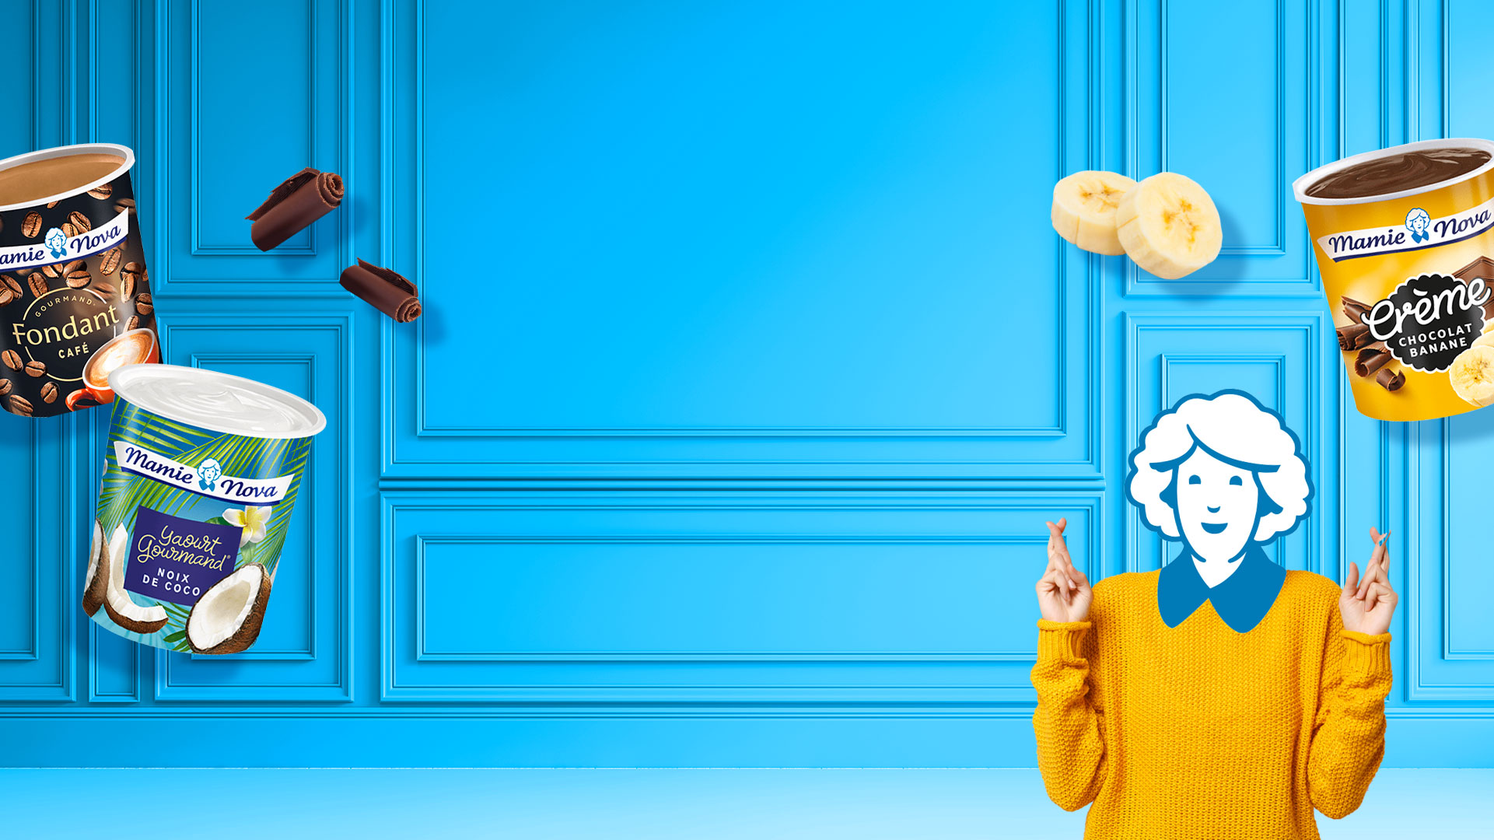
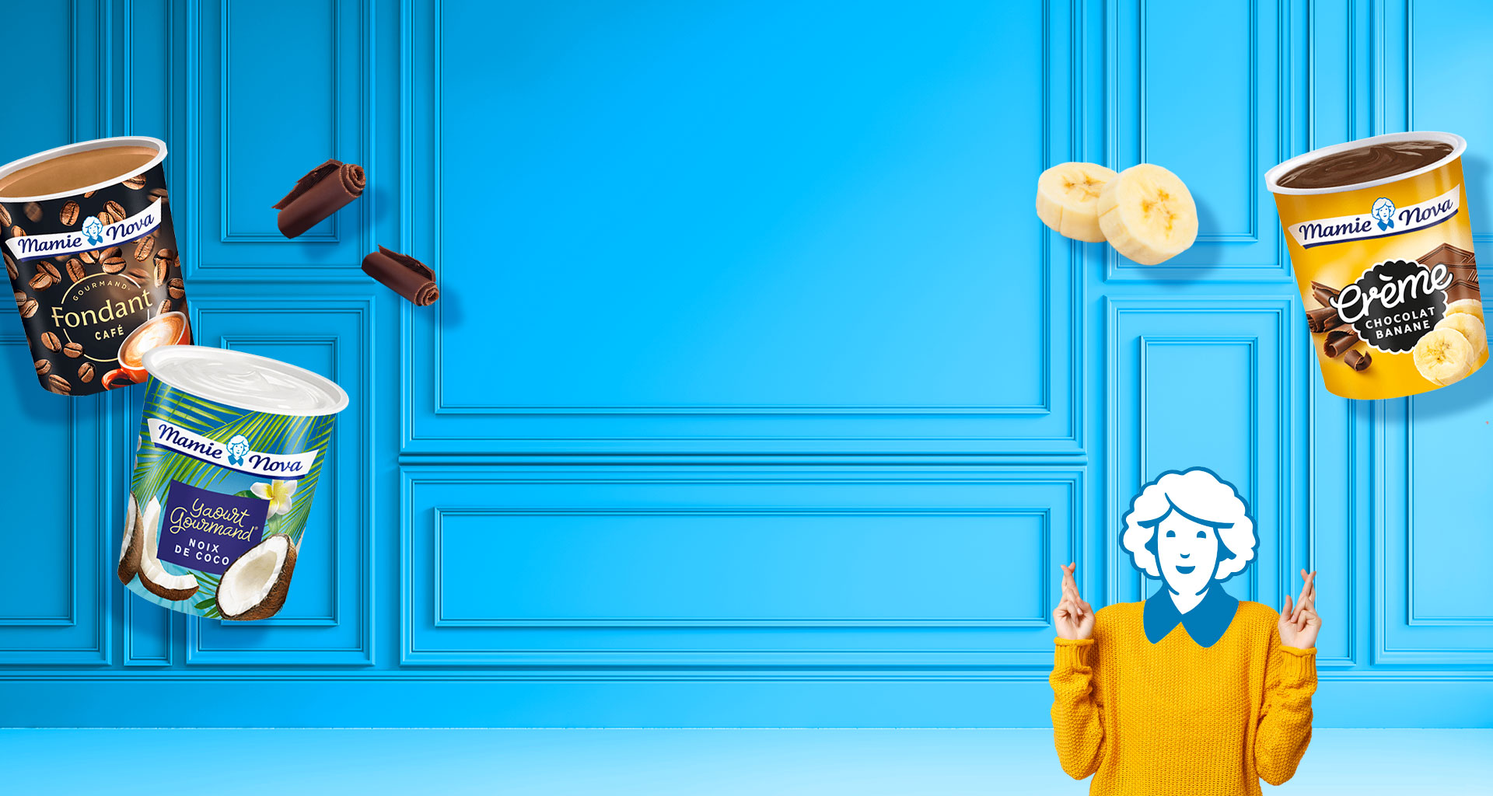
bg position + update bg

diff --git a/css/style.css b/css/style.css
@@ -1,1 +1,1 @@
-@import url("https://fonts.googleapis.com/css2?family=Poppins:wght@400;700&family=Lato:ital,wght@0,100;0,300;0,400;0,700;0,900;1,100;1,300;1,400;1,700;1,900&display=swap");@import url("https://use.typekit.net/puq2idw.css");body{font-family:"Poppins", sans-serif;font-weight:400;color:#292757}a{color:#292757}a:hover{color:#292757}button:focus{outline:none}.layout{background-color:#00aff2;min-height:calc(100vh - 20px);display:-webkit-box;display:-ms-flexbox;display:flex;-webkit-box-orient:vertical;-webkit-box-direction:normal;-ms-flex-direction:column;flex-direction:column;-webkit-box-pack:start;-ms-flex-pack:start;justify-content:start}@media (min-width: 768px){.layout{background-image:url("../assets/imgs/bg-tablet.jpg");background-size:cover;background-position:center}}.brand-logo{max-width:100%;z-index:1;margin:0 auto;padding:15px;width:240px}@media (min-width: 1200px){.brand-logo{width:300px}}.btn{font-family:"Poppins", sans-serif;font-size:30px;font-weight:700;border:solid 3px #fff;border-radius:20px;-webkit-box-shadow:6.3px 7.8px 0 0 #1aa1f380;box-shadow:6.3px 7.8px 0 0 #1aa1f380;padding:0 45px;text-transform:uppercase;color:white}.btn.btn-primary{background-color:#292757}.btn.btn-red{background-color:#ff4d03}.btn.btn-yellow{background-color:#ffa00e}.form-block{background-color:white;border-radius:30px;-webkit-box-shadow:6.9px 8.5px 0 0 #1e1e4c;box-shadow:6.9px 8.5px 0 0 #1e1e4c;max-width:800px;padding:20px 10px}@media (min-width: 768px){.form-block{padding:20px}}h1{font-size:38px;line-height:1;text-align:center;color:#292757;text-transform:uppercase;font-family:bello-caps, sans-serif}p{font-size:16px}.red{color:#ff4d03}header{margin-bottom:-40px}@media (min-width: 768px){header{margin-bottom:-50px}}@media (min-width: 1200px){header{margin-bottom:-60px}}header .navbar{background-color:#00aff2}@media (min-width: 768px){header .navbar{background-color:#292757;padding-top:0;padding-bottom:0}}header .navbar .navbar-toggler{z-index:2;border:none}header .navbar .navbar-toggler:focus{border:none;-webkit-box-shadow:none;box-shadow:none}header .navbar .navbar-collapse{-webkit-box-pack:center;-ms-flex-pack:center;justify-content:center}header .navbar .navbar-collapse .navbar-nav{padding-left:15px}@media (min-width: 768px){header .navbar .navbar-collapse .navbar-nav{-webkit-transform:translateX(60px);transform:translateX(60px)}}header .navbar .navbar-collapse .navbar-nav .nav-item{display:-webkit-box;display:-ms-flexbox;display:flex;-webkit-box-align:center;-ms-flex-align:center;align-items:center}header .navbar .navbar-collapse .navbar-nav .nav-item .nav-link{color:white;text-transform:uppercase;font-size:12px;font-weight:600}@media (min-width: 768px){header .navbar .navbar-collapse .navbar-nav .nav-item .nav-link{padding-left:5px;padding-right:5px}}@media (min-width: 1200px){header .navbar .navbar-collapse .navbar-nav .nav-item .nav-link{padding-left:10px;padding-right:10px;font-size:16px}}header .navbar .navbar-collapse .navbar-nav .nav-item .nav-link img{width:25px}@media (min-width: 1200px){header .navbar .navbar-collapse .navbar-nav .nav-item .nav-link img{width:30px}}@media (min-width: 1200px){header .navbar .navbar-collapse .navbar-nav .nav-item .nav-link.social{padding-left:5px;padding-right:5px}}header .navbar .navbar-collapse .navbar-nav .space{display:none}@media (min-width: 768px){header .navbar .navbar-collapse .navbar-nav .space{display:block;width:240px}}@media (min-width: 1200px){header .navbar .navbar-collapse .navbar-nav .space{width:300px}}@media (min-width: 1200px){header .navbar .navbar-collapse .navbar-nav .space.ishome{width:450px}}footer{background-color:#292757;padding:5px 0;color:white;position:relative}footer a{color:white;text-transform:uppercase;font-weight:700;font-size:10px;text-decoration:none;text-align:center}footer a:hover{color:white}footer a:not(:last-child){padding-right:10px;margin-right:10px;border-right:1px solid white}.form-progress{margin:30px 0;display:-webkit-box;display:-ms-flexbox;display:flex;-webkit-box-pack:center;-ms-flex-pack:center;justify-content:center;position:relative}.form-progress:after{content:"";width:55%;position:absolute;height:4px;background-color:#ff4d03;top:13px;margin:auto}@media (min-width: 0){.form-progress:after{width:220px}}.form-progress .step{display:-webkit-box;display:-ms-flexbox;display:flex;-webkit-box-orient:vertical;-webkit-box-direction:normal;-ms-flex-direction:column;flex-direction:column;-webkit-box-align:center;-ms-flex-align:center;align-items:center;width:120px}.form-progress .step .number-container{position:relative;z-index:1}.form-progress .step .number-container .bulle{width:30px}.form-progress .step .number-container .number{position:absolute;top:4px;left:11px;color:white;font-family:"Poppins", sans-serif;font-weight:900;font-size:16px;opacity:0.5}.form-progress .step .title{color:rgba(255,77,3,0.7);font-size:12px;margin-top:5px;font-family:"Poppins", sans-serif;font-weight:400;text-transform:uppercase}.form-progress .step.active .bulle{width:40px;position:relative;top:-5px}.form-progress .step.active .number{top:0px;left:15px;opacity:1;font-size:22px}.form-progress .step.active .title{font-size:14px;color:#ff4d03}.modal-btn{width:12px;height:12px;border-radius:20px;color:white;background-color:#ff4d03;display:inline-block;cursor:pointer;margin-left:3px}.modal-btn .text-container{display:-webkit-box;display:-ms-flexbox;display:flex;-webkit-box-pack:center;-ms-flex-pack:center;justify-content:center;-webkit-box-align:center;-ms-flex-align:center;align-items:center;line-height:normal}.modal-btn .text-container div{font-size:8px;font-weight:700}.modal .modal-content{text-align:center;padding:40px 60px}.modal .modal-content .close-btn{cursor:pointer;position:absolute;top:-20px;right:-17px}.modal .modal-content h2{font-size:24px;font-weight:700}.modal .modal-content p{font-size:20px}.home{background-position:right}@media (min-width: 1200px){.home{background-image:url("../assets/imgs/bg-home.jpg");background-size:cover;background-position:center}}@media (min-width: 1200px){.home .brand-logo{width:500px}}@media (min-width: 1400px){.home .a-gagner-container{position:relative;top:-130px;right:-130px}}@media (min-width: 1200px){.question-1{background-image:url("../assets/imgs/bg-question-1.jpg");background-size:cover;background-position:center}}.question-1 h1,.question-1 p{text-align:center}.question-1 input{cursor:pointer}.question-1 label{cursor:pointer;font-family:"Poppins", sans-serif;font-size:14px;font-weight:700;text-transform:uppercase}.question-1 .no-code-img{width:40%}@media (min-width: 768px){.question-2{background-image:url("../assets/imgs/bg-tablet-question-2.jpg");background-size:cover;background-position:center}}@media (min-width: 1200px){.question-2{background-image:url("../assets/imgs/bg-question-2.jpg");background-size:cover;background-position:center}}.question-2 .questions-container{position:relative}.question-2 .questions-container img{width:200px;margin:15px 0}@media (min-width: 768px){.question-2 .questions-container img{margin:0 15px}}@media (min-width: 1200px){.question-2 .questions-container img{width:200px}}.question-2 .mamie{display:none}@media (min-width: 1200px){.question-2 .mamie{display:block;width:200px;position:fixed;bottom:28px;left:50%;-webkit-transform:translateX(-50%);transform:translateX(-50%);margin-left:-440px}}.reponse .form-block{max-width:500px;text-align:center;position:relative}.reponse .form-block:before{content:"";display:inline-block;height:0;width:0;border-top:30px solid #292757;border-left:30px solid transparent;position:absolute;bottom:-30px;right:30px}.reponse .form-block:after{content:"";display:inline-block;height:0;width:0;border-top:20px solid white;border-left:20px solid transparent;position:absolute;bottom:-19px;right:35px}@media (min-width: 1200px){.reponse.reponse-1{background-image:url("../assets/imgs/bg-reponse-1.jpg");background-size:cover;background-position:center}}.reponse.reponse-1 .form-block{-webkit-box-shadow:6.9px 8.5px 0 0 #0172f6;box-shadow:6.9px 8.5px 0 0 #0172f6}.reponse.reponse-1 .form-block:before{border-top:30px solid #0172f6}@media (min-width: 1200px){.reponse.reponse-2{background-image:url("../assets/imgs/bg-reponse-2.jpg");background-size:cover;background-position:center}}.reponse.reponse-2 .form-block{-webkit-box-shadow:6.9px 8.5px 0 0 #ffbca5;box-shadow:6.9px 8.5px 0 0 #ffbca5}.reponse.reponse-2 .form-block:before{border-top:30px solid #ffbca5}@media (min-width: 1200px){.reponse.reponse-3{background-image:url("../assets/imgs/bg-reponse-3.jpg");background-size:cover;background-position:center}}.reponse.reponse-3 .form-block{-webkit-box-shadow:6.9px 8.5px 0 0 #ff7b30;box-shadow:6.9px 8.5px 0 0 #ff7b30}.reponse.reponse-3 .form-block:before{border-top:30px solid #ff7b30}@media (min-width: 1200px){.inscription{background-image:url("../assets/imgs/bg-inscription.jpg");background-size:cover;background-position:center}}.inscription .form-block{max-width:600px}.inscription h2{color:#ff4d03;text-align:center;text-transform:uppercase;font-size:20px;font-weight:700;margin-bottom:10px}.inscription .mentions{font-size:12px;text-align:center}.inscription .inputs-container{margin-bottom:20px;font-size:12px}@media (min-width: 768px){.inscription .inputs-container{padding:0 70px}}.inscription label{font-size:12px}.inscription input[type="text"],.inscription select{width:100%;border-radius:10px;background-color:#292757;color:white;padding:5px 0 5px 20px}.inscription input[type="text"]::-webkit-input-placeholder,.inscription select::-webkit-input-placeholder{color:rgba(255,255,255,0.71);font-style:italic}.inscription input[type="text"]:-ms-input-placeholder,.inscription select:-ms-input-placeholder{color:rgba(255,255,255,0.71);font-style:italic}.inscription input[type="text"]::-ms-input-placeholder,.inscription select::-ms-input-placeholder{color:rgba(255,255,255,0.71);font-style:italic}.inscription input[type="text"]::placeholder,.inscription select::placeholder{color:rgba(255,255,255,0.71);font-style:italic}.inscription input[type="text"].code,.inscription select.code{height:45px;letter-spacing:24px;font-size:18px;padding-left:17px;width:340px}@media (min-width: 768px){.inscription input[type="text"].code,.inscription select.code{padding-left:59px;width:100%}}.inscription .dotted-line{display:-webkit-box;display:-ms-flexbox;display:flex;-webkit-box-pack:center;-ms-flex-pack:center;justify-content:center;position:relative;bottom:12px}.inscription .dotted-line span{margin-right:7px;display:block;height:2px;width:28px;background-color:rgba(255,255,255,0.71)}.inscription .form-check-label{font-size:10px;position:relative;top:-2px}.inscription .inputfile{width:0.1px;height:0.1px;opacity:0;overflow:hidden;position:absolute;z-index:-1}.inscription .inputfile+label{text-transform:uppercase;cursor:pointer;border:3px solid #292757;font-weight:900;padding:2px 5px;font-size:14px}@media (min-width: 1200px){.gagne{background-image:url("../assets/imgs/bg-gagne-tas.jpg");background-size:cover;background-position:center}}.gagne p{font-weight:600;margin:30px 0 20px;max-width:260px;text-align:center;font-size:14px;font-family:"Lato", sans-serif}@media (min-width: 1200px){.perdu{background-image:url("../assets/imgs/bg-perdu.jpg");background-size:cover;background-position:center}}@media (min-width: 1200px){.a-gagner{background-image:url("../assets/imgs/bg-a-gagner.jpg");background-size:cover;background-position:center}}@media (min-width: 1200px){.participer{background-image:url("../assets/imgs/bg-participer.jpg");background-size:cover;background-position:center}}.participer .block{background-color:white;border-radius:26px;padding:20px}.participer h2{text-align:center;font-size:28px;margin-bottom:30px;font-family:bello-caps, sans-serif;line-height:1}.participer h2 .small{font-size:20px}.participer ol{list-style:none;padding:0}.participer ol li{margin-top:15px;display:-webkit-box;display:-ms-flexbox;display:flex;-webkit-box-align:start;-ms-flex-align:start;align-items:start}.participer ol li .number-container{margin-right:10px;position:relative;z-index:1}.participer ol li .number-container .bulle{width:30px}.participer ol li .number-container .number{text-align:center;position:absolute;top:1px;left:11px;color:white;font-family:"Poppins", sans-serif;font-weight:900;font-size:18px}.participer ol li p{text-transform:uppercase;margin-bottom:0}.participer ol li aside{font-size:12px}.participer .carousel{max-width:110px}@media (min-width: 576px){.participer .carousel{max-width:333px}}.participer .carousel img:not(.arrow){height:60px;margin:0 10px}.participer .carousel .arrow{cursor:pointer;width:10px;position:absolute;top:20px}.participer .carousel .arrow.prev{left:-20px;-webkit-transform:rotate(180deg);transform:rotate(180deg)}.participer .carousel .arrow.next{right:-15px}.participer .carousel.carousel-1{margin:20px 0 10px 20px}.participer .carousel.carousel-2{margin-left:10px}.participer .carousel.carousel-2 img:not(.arrow){height:100px;margin:0}.participer .carousel.carousel-2 .arrow{top:40px}
+@import url("https://fonts.googleapis.com/css2?family=Poppins:wght@400;700&family=Lato:ital,wght@0,100;0,300;0,400;0,700;0,900;1,100;1,300;1,400;1,700;1,900&display=swap");@import url("https://use.typekit.net/puq2idw.css");body{font-family:"Poppins", sans-serif;font-weight:400;color:#292757}a{color:#292757}a:hover{color:#292757}button:focus{outline:none}.layout{background-color:#00aff2;min-height:calc(100vh - 20px);display:-webkit-box;display:-ms-flexbox;display:flex;-webkit-box-orient:vertical;-webkit-box-direction:normal;-ms-flex-direction:column;flex-direction:column;-webkit-box-pack:start;-ms-flex-pack:start;justify-content:start}@media (min-width: 768px){.layout{background-image:url("../assets/imgs/bg-tablet.jpg");background-size:cover;background-position:center}}.brand-logo{max-width:100%;z-index:1;margin:0 auto;padding:15px;width:240px}@media (min-width: 1200px){.brand-logo{width:300px}}.btn{font-family:"Poppins", sans-serif;font-size:30px;font-weight:700;border:solid 3px #fff;border-radius:20px;-webkit-box-shadow:6.3px 7.8px 0 0 #1aa1f380;box-shadow:6.3px 7.8px 0 0 #1aa1f380;padding:0 45px;text-transform:uppercase;color:white}.btn.btn-primary{background-color:#292757}.btn.btn-red{background-color:#ff4d03}.btn.btn-yellow{background-color:#ffa00e}.form-block{background-color:white;border-radius:30px;-webkit-box-shadow:6.9px 8.5px 0 0 #1e1e4c;box-shadow:6.9px 8.5px 0 0 #1e1e4c;max-width:800px;padding:20px 10px}@media (min-width: 768px){.form-block{padding:20px}}h1{font-size:38px;line-height:1;text-align:center;color:#292757;text-transform:uppercase;font-family:bello-caps, sans-serif}p{font-size:16px}.red{color:#ff4d03}header{margin-bottom:-40px}@media (min-width: 768px){header{margin-bottom:-50px}}@media (min-width: 1200px){header{margin-bottom:-60px}}header .navbar{background-color:#00aff2}@media (min-width: 768px){header .navbar{background-color:#292757;padding-top:0;padding-bottom:0}}header .navbar .navbar-toggler{z-index:2;border:none}header .navbar .navbar-toggler:focus{border:none;-webkit-box-shadow:none;box-shadow:none}header .navbar .navbar-collapse{-webkit-box-pack:center;-ms-flex-pack:center;justify-content:center}header .navbar .navbar-collapse .navbar-nav{padding-left:15px}@media (min-width: 768px){header .navbar .navbar-collapse .navbar-nav{-webkit-transform:translateX(60px);transform:translateX(60px)}}header .navbar .navbar-collapse .navbar-nav .nav-item{display:-webkit-box;display:-ms-flexbox;display:flex;-webkit-box-align:center;-ms-flex-align:center;align-items:center}header .navbar .navbar-collapse .navbar-nav .nav-item .nav-link{color:white;text-transform:uppercase;font-size:12px;font-weight:600}@media (min-width: 768px){header .navbar .navbar-collapse .navbar-nav .nav-item .nav-link{padding-left:5px;padding-right:5px}}@media (min-width: 1200px){header .navbar .navbar-collapse .navbar-nav .nav-item .nav-link{padding-left:10px;padding-right:10px;font-size:16px}}header .navbar .navbar-collapse .navbar-nav .nav-item .nav-link img{width:25px}@media (min-width: 1200px){header .navbar .navbar-collapse .navbar-nav .nav-item .nav-link img{width:30px}}@media (min-width: 1200px){header .navbar .navbar-collapse .navbar-nav .nav-item .nav-link.social{padding-left:5px;padding-right:5px}}header .navbar .navbar-collapse .navbar-nav .space{display:none}@media (min-width: 768px){header .navbar .navbar-collapse .navbar-nav .space{display:block;width:240px}}@media (min-width: 1200px){header .navbar .navbar-collapse .navbar-nav .space{width:300px}}@media (min-width: 1200px){header .navbar .navbar-collapse .navbar-nav .space.ishome{width:450px}}footer{background-color:#292757;padding:5px 0;color:white;position:relative}footer a{color:white;text-transform:uppercase;font-weight:700;font-size:10px;text-decoration:none;text-align:center}footer a:hover{color:white}footer a:not(:last-child){padding-right:10px;margin-right:10px;border-right:1px solid white}.form-progress{margin:30px 0;display:-webkit-box;display:-ms-flexbox;display:flex;-webkit-box-pack:center;-ms-flex-pack:center;justify-content:center;position:relative}.form-progress:after{content:"";width:55%;position:absolute;height:4px;background-color:#ff4d03;top:13px;margin:auto}@media (min-width: 0){.form-progress:after{width:220px}}.form-progress .step{display:-webkit-box;display:-ms-flexbox;display:flex;-webkit-box-orient:vertical;-webkit-box-direction:normal;-ms-flex-direction:column;flex-direction:column;-webkit-box-align:center;-ms-flex-align:center;align-items:center;width:120px}.form-progress .step .number-container{position:relative;z-index:1}.form-progress .step .number-container .bulle{width:30px}.form-progress .step .number-container .number{position:absolute;top:4px;left:11px;color:white;font-family:"Poppins", sans-serif;font-weight:900;font-size:16px;opacity:0.5}.form-progress .step .title{color:rgba(255,77,3,0.7);font-size:12px;margin-top:5px;font-family:"Poppins", sans-serif;font-weight:400;text-transform:uppercase}.form-progress .step.active .bulle{width:40px;position:relative;top:-5px}.form-progress .step.active .number{top:0px;left:15px;opacity:1;font-size:22px}.form-progress .step.active .title{font-size:14px;color:#ff4d03}.modal-btn{width:12px;height:12px;border-radius:20px;color:white;background-color:#ff4d03;display:inline-block;cursor:pointer;margin-left:3px}.modal-btn .text-container{display:-webkit-box;display:-ms-flexbox;display:flex;-webkit-box-pack:center;-ms-flex-pack:center;justify-content:center;-webkit-box-align:center;-ms-flex-align:center;align-items:center;line-height:normal}.modal-btn .text-container div{font-size:8px;font-weight:700}.modal .modal-content{text-align:center;padding:40px 60px}.modal .modal-content .close-btn{cursor:pointer;position:absolute;top:-20px;right:-17px}.modal .modal-content h2{font-size:24px;font-weight:700}.modal .modal-content p{font-size:20px}.home{background-position:right}@media (min-width: 1200px){.home{background-image:url("../assets/imgs/bg-home.jpg");background-size:cover;background-position:center}}@media (min-width: 1200px){.home .brand-logo{width:500px}}@media (min-width: 1400px){.home .a-gagner-container{position:relative;top:-130px;right:-130px}}.question-1{background-position:bottom !important}@media (min-width: 1200px){.question-1{background-image:url("../assets/imgs/bg-question-1.jpg");background-size:cover;background-position:center}}.question-1 h1,.question-1 p{text-align:center}.question-1 input{cursor:pointer}.question-1 label{cursor:pointer;font-family:"Poppins", sans-serif;font-size:14px;font-weight:700;text-transform:uppercase}.question-1 .no-code-img{width:40%}@media (min-width: 768px){.question-2{background-image:url("../assets/imgs/bg-tablet-question-2.jpg");background-size:cover;background-position:center}}@media (min-width: 1200px){.question-2{background-image:url("../assets/imgs/bg-question-2.jpg");background-size:cover;background-position:center}}.question-2 .questions-container{position:relative}.question-2 .questions-container img{width:200px;margin:15px 0}@media (min-width: 768px){.question-2 .questions-container img{margin:0 15px}}@media (min-width: 1200px){.question-2 .questions-container img{width:200px}}.question-2 .mamie{display:none}@media (min-width: 1200px){.question-2 .mamie{display:block;width:200px;position:fixed;bottom:28px;left:50%;-webkit-transform:translateX(-50%);transform:translateX(-50%);margin-left:-440px}}.reponse .form-block{max-width:500px;text-align:center;position:relative}.reponse .form-block:before{content:"";display:inline-block;height:0;width:0;border-top:30px solid #292757;border-left:30px solid transparent;position:absolute;bottom:-30px;right:30px}.reponse .form-block:after{content:"";display:inline-block;height:0;width:0;border-top:20px solid white;border-left:20px solid transparent;position:absolute;bottom:-19px;right:35px}@media (min-width: 1200px){.reponse.reponse-1{background-image:url("../assets/imgs/bg-reponse-1.jpg");background-size:cover;background-position:center}}.reponse.reponse-1 .form-block{-webkit-box-shadow:6.9px 8.5px 0 0 #0172f6;box-shadow:6.9px 8.5px 0 0 #0172f6}.reponse.reponse-1 .form-block:before{border-top:30px solid #0172f6}@media (min-width: 1200px){.reponse.reponse-2{background-image:url("../assets/imgs/bg-reponse-2.jpg");background-size:cover;background-position:center}}.reponse.reponse-2 .form-block{-webkit-box-shadow:6.9px 8.5px 0 0 #ffbca5;box-shadow:6.9px 8.5px 0 0 #ffbca5}.reponse.reponse-2 .form-block:before{border-top:30px solid #ffbca5}@media (min-width: 1200px){.reponse.reponse-3{background-image:url("../assets/imgs/bg-reponse-3.jpg");background-size:cover;background-position:center}}.reponse.reponse-3 .form-block{-webkit-box-shadow:6.9px 8.5px 0 0 #ff7b30;box-shadow:6.9px 8.5px 0 0 #ff7b30}.reponse.reponse-3 .form-block:before{border-top:30px solid #ff7b30}.inscription{background-position:left !important}@media (min-width: 1200px){.inscription{background-image:url("../assets/imgs/bg-inscription.jpg");background-size:cover;background-position:center}}.inscription .form-block{max-width:600px}.inscription h2{color:#ff4d03;text-align:center;text-transform:uppercase;font-size:20px;font-weight:700;margin-bottom:10px}.inscription .mentions{font-size:12px;text-align:center}.inscription .inputs-container{margin-bottom:20px;font-size:12px}@media (min-width: 768px){.inscription .inputs-container{padding:0 70px}}.inscription label{font-size:12px}.inscription input[type="text"],.inscription select{width:100%;border-radius:10px;background-color:#292757;color:white;padding:5px 0 5px 20px}.inscription input[type="text"]::-webkit-input-placeholder,.inscription select::-webkit-input-placeholder{color:rgba(255,255,255,0.71);font-style:italic}.inscription input[type="text"]:-ms-input-placeholder,.inscription select:-ms-input-placeholder{color:rgba(255,255,255,0.71);font-style:italic}.inscription input[type="text"]::-ms-input-placeholder,.inscription select::-ms-input-placeholder{color:rgba(255,255,255,0.71);font-style:italic}.inscription input[type="text"]::placeholder,.inscription select::placeholder{color:rgba(255,255,255,0.71);font-style:italic}.inscription input[type="text"].code,.inscription select.code{height:45px;letter-spacing:24px;font-size:18px;padding-left:17px;width:340px}@media (min-width: 768px){.inscription input[type="text"].code,.inscription select.code{padding-left:59px;width:100%}}.inscription .dotted-line{display:-webkit-box;display:-ms-flexbox;display:flex;-webkit-box-pack:center;-ms-flex-pack:center;justify-content:center;position:relative;bottom:12px}.inscription .dotted-line span{margin-right:7px;display:block;height:2px;width:28px;background-color:rgba(255,255,255,0.71)}.inscription .form-check-label{font-size:10px;position:relative;top:-2px}.inscription .inputfile{width:0.1px;height:0.1px;opacity:0;overflow:hidden;position:absolute;z-index:-1}.inscription .inputfile+label{text-transform:uppercase;cursor:pointer;border:3px solid #292757;font-weight:900;padding:2px 5px;font-size:14px}@media (min-width: 1200px){.gagne{background-image:url("../assets/imgs/bg-gagne-tas.jpg");background-size:cover;background-position:center}}.gagne p{font-weight:600;margin:30px 0 20px;max-width:260px;text-align:center;font-size:14px;font-family:"Lato", sans-serif}@media (min-width: 1200px){.perdu{background-image:url("../assets/imgs/bg-perdu.jpg");background-size:cover;background-position:center}}@media (min-width: 1200px){.a-gagner{background-image:url("../assets/imgs/bg-a-gagner.jpg");background-size:cover;background-position:center}}@media (min-width: 1200px){.participer{background-image:url("../assets/imgs/bg-participer.jpg");background-size:cover;background-position:center}}.participer .block{background-color:white;border-radius:26px;padding:20px}.participer h2{text-align:center;font-size:28px;margin-bottom:30px;font-family:bello-caps, sans-serif;line-height:1}.participer h2 .small{font-size:20px}.participer ol{list-style:none;padding:0}.participer ol li{margin-top:15px;display:-webkit-box;display:-ms-flexbox;display:flex;-webkit-box-align:start;-ms-flex-align:start;align-items:start}.participer ol li .number-container{margin-right:10px;position:relative;z-index:1}.participer ol li .number-container .bulle{width:30px}.participer ol li .number-container .number{text-align:center;position:absolute;top:1px;left:11px;color:white;font-family:"Poppins", sans-serif;font-weight:900;font-size:18px}.participer ol li p{text-transform:uppercase;margin-bottom:0}.participer ol li aside{font-size:12px}.participer .carousel{max-width:110px}@media (min-width: 576px){.participer .carousel{max-width:333px}}.participer .carousel img:not(.arrow){height:60px;margin:0 10px}.participer .carousel .arrow{cursor:pointer;width:10px;position:absolute;top:20px}.participer .carousel .arrow.prev{left:-20px;-webkit-transform:rotate(180deg);transform:rotate(180deg)}.participer .carousel .arrow.next{right:-15px}.participer .carousel.carousel-1{margin:20px 0 10px 20px}.participer .carousel.carousel-2{margin-left:10px}.participer .carousel.carousel-2 img:not(.arrow){height:100px;margin:0}.participer .carousel.carousel-2 .arrow{top:40px}

diff --git a/sass/pages/_inscription.scss b/sass/pages/_inscription.scss
@@ -1,5 +1,6 @@
 .inscription {
   @include pageBackground("../assets/imgs/bg-inscription.jpg");
+  background-position: left !important;
   .form-block {
     max-width: 600px;
   }

diff --git a/sass/pages/_question-1.scss b/sass/pages/_question-1.scss
@@ -1,5 +1,6 @@
 .question-1 {
   @include pageBackground("../assets/imgs/bg-question-1.jpg");
+  background-position: bottom !important;
   h1,
   p {
     text-align: center;
